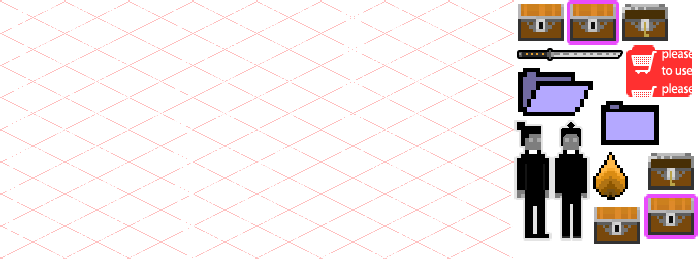
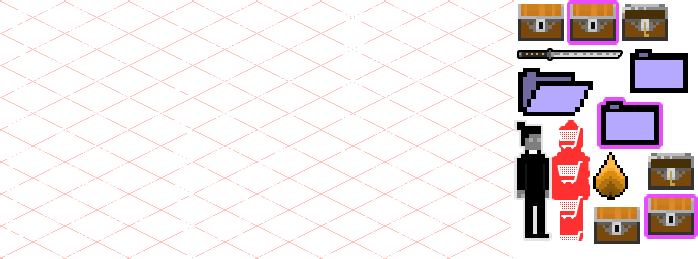
Working on FolderSystem:

Changed region(s): [[0.7822, 0.1544, 0.9928, 0.9266]]

diff --git a/src/game/systems/PhaserOutputFolderSystem.ts b/src/game/systems/PhaserOutputFolderSystem.ts
@@ -1,0 +1,69 @@
+import System from "game/ECS/system"
+import {ISystemAdditional, ISystemPhaserInjectable} from "game/systems/index"
+import EntitiesManager from "game/ECS/entitiesmanager"
+import {FOLDER_COMPONENT_NAME, IFolderComponentState} from "game/components/FolderComponent"
+import {PLAYER_COMPONENT_NAME} from "game/components/PlayerComponent"
+import {GO_COMPONENT_NAME, IGOComponentState} from "game/components/GOComponent"
+import {BODY_COMPONENT_NAME, IBodyComponentState} from "game/components/BodyComponent"
+import {GOSprite} from "game/GOManager"
+import {Loot} from "game/objects/Loot"
+import ServiceDescription from "game/objects/ServiceDescription"
+const Vector2 = Phaser.Math.Vector2
+
+const PhaserOutputFolderSystemName = "PhaserOutputFolderSystem"
+
+class PhaserOutputFolderSystem extends System<ISystemAdditional, ISystemPhaserInjectable> {
+    public update(
+        entityManager: EntitiesManager,
+        additional: ISystemAdditional,
+        inj: ISystemPhaserInjectable,
+    ): undefined {
+
+        const entities = entityManager.queryByComponentsName([
+            FOLDER_COMPONENT_NAME,
+        ])
+
+        const playerEnt = entityManager.queryByComponentsName([
+            PLAYER_COMPONENT_NAME,
+        ])[0]
+
+        for (let i = 0; i < entities.length; i++) {
+            const folder = entities[i]
+            const folderFolderComp = folder.componentsByName[FOLDER_COMPONENT_NAME].state as IFolderComponentState
+            const folderBodyComp = folder.componentsByName[BODY_COMPONENT_NAME].state as IBodyComponentState
+            const goIdComp = folder.componentsByName[GO_COMPONENT_NAME].state as IGOComponentState
+            const folderGO = inj.goManager.getGOById(goIdComp.id) as GOSprite
+            const playerBodyComp = playerEnt.componentsByName[BODY_COMPONENT_NAME].state as IBodyComponentState
+
+            if (!folderFolderComp.isOpened) {
+                const plDist = new Vector2(
+                    playerBodyComp.x,
+                    playerBodyComp.y,
+                ).distance(new Vector2(folderBodyComp.x, folderBodyComp.y))
+                if (
+                    plDist < 100
+                ) {
+                    if (!folderFolderComp.isTouched) {
+                        folderGO.setFrame("objects/projects/folderClosedTouched.psd")
+                        folderFolderComp.isTouched = true
+                    }
+                } else {
+                    if (folderFolderComp.isTouched) {
+                        folderGO.setFrame("objects/projects/folderClosed.psd")
+                        folderFolderComp.isTouched = false
+                    }
+                }
+                if (folderFolderComp.isTouched) {
+                    if (inj.cursors.action.isDown) {
+                        folderFolderComp.isOpened = true
+                        folderGO.setFrame("objects/projects/folderOpened.psd")
+                    }
+                }
+            }
+        }
+
+        return
+    }
+}
+
+export default new PhaserOutputFolderSystem(PhaserOutputFolderSystemName)

diff --git a/src/game/scenes/GameScene.ts b/src/game/scenes/GameScene.ts
@@ -25,6 +25,8 @@ import DynamicDepthSystem from "game/systems/DynamicDepthSystem"
 import ChestComponentFactory from "game/components/ChestComponent"
 import PhaserOutputChestSystem from "game/systems/PhaserOutputChestSystem"
 import DashSystem from "game/systems/DashSystem"
+import FolderComponentFactory from "game/components/FolderComponent"
+import PhaserOutputFolderSystem from "game/systems/PhaserOutputFolderSystem"
 
 const ECS = new ECSManager([
     PhaserInputPositionSystem,
@@ -34,6 +36,7 @@ const ECS = new ECSManager([
     DynamicDepthSystem,
     DashSystem,
     PhaserOutputChestSystem,
+    PhaserOutputFolderSystem,
     PhaserOutputPlayerAnimationSystem,
     PhaserOutputPlayerMovementSystem,
     PhaserOutputDynamicDepthSystem,
@@ -410,6 +413,24 @@ export class GameScene extends Phaser.Scene {
         subtitleText.setDepth(this.gameHeight)
 
         const fFolder = new Folder(this, "SPA", this.gameWidth / 2, thirdScreenOffsetY + this.screenHeight / 2 )
+        this.goManager.addGO(fFolder)
+        ECS.entitiesManager.createEntity([
+            GOComponentFactory(fFolder.id),
+            FolderComponentFactory(),
+            BodyComponentComponentFactory(
+                fFolder.body.x,
+                fFolder.body.y,
+                fFolder.body.width,
+                fFolder.body.height,
+            ),
+            PositionComponentFactory(
+                fFolder.x,
+                fFolder.y,
+                fFolder.width,
+                fFolder.height,
+            ),
+        ])
+
         this.folders.add(fFolder, true)
 
         this.physics.add.collider(this.player, this.folders)
@@ -469,6 +490,8 @@ export class GameScene extends Phaser.Scene {
             goManager: this.goManager,
             gameWidth: this.gameWidth,
             gameHeight: this.gameHeight,
+            timeSpeedScale: this.timeSpeedScale,
+            deltaTimeScaled: 0,
         })
     }
 

diff --git a/src/game/components/FolderComponent.ts b/src/game/components/FolderComponent.ts
@@ -1,0 +1,20 @@
+import {IComponentFactory} from "game/ECS/types"
+
+export interface IFolderComponentState {
+    isOpened: boolean
+    isTouched: boolean
+}
+
+export const FOLDER_COMPONENT_NAME = "FolderComponent"
+
+const FolderComponentFactory: IComponentFactory<IFolderComponentState> = () => {
+    return {
+        name: FOLDER_COMPONENT_NAME,
+        state: {
+            isOpened: false,
+            isTouched: false,
+        },
+    }
+}
+
+export default FolderComponentFactory

diff --git a/src/game/components/ProjectComponent.ts b/src/game/components/ProjectComponent.ts
@@ -1,0 +1,16 @@
+import {IComponentFactory} from "game/ECS/types"
+
+interface IProjectComponentState {
+    
+}
+
+export const PROJECT_COMPONENT_NAME = "ProjectComponent"
+
+const ProjectComponentFactory: IComponentFactory<IProjectComponentState> = () => {
+    return {
+        name: PROJECT_COMPONENT_NAME,
+        state: {},
+    }
+}
+
+export default ProjectComponentFactory
